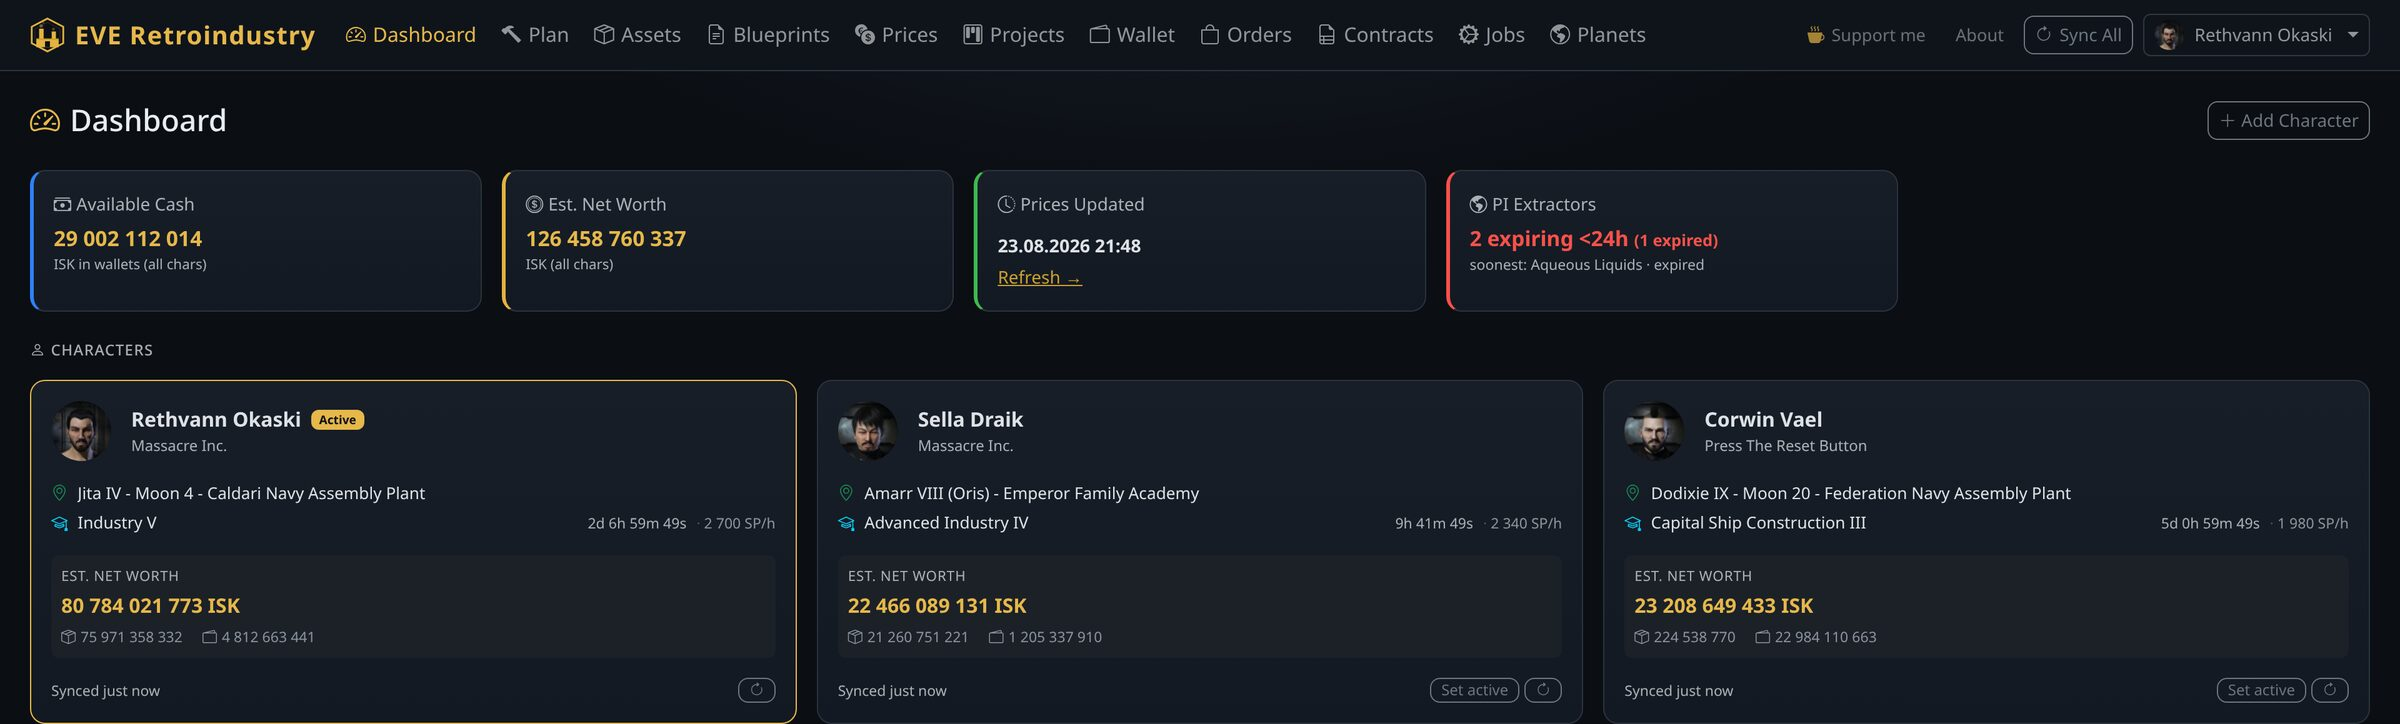
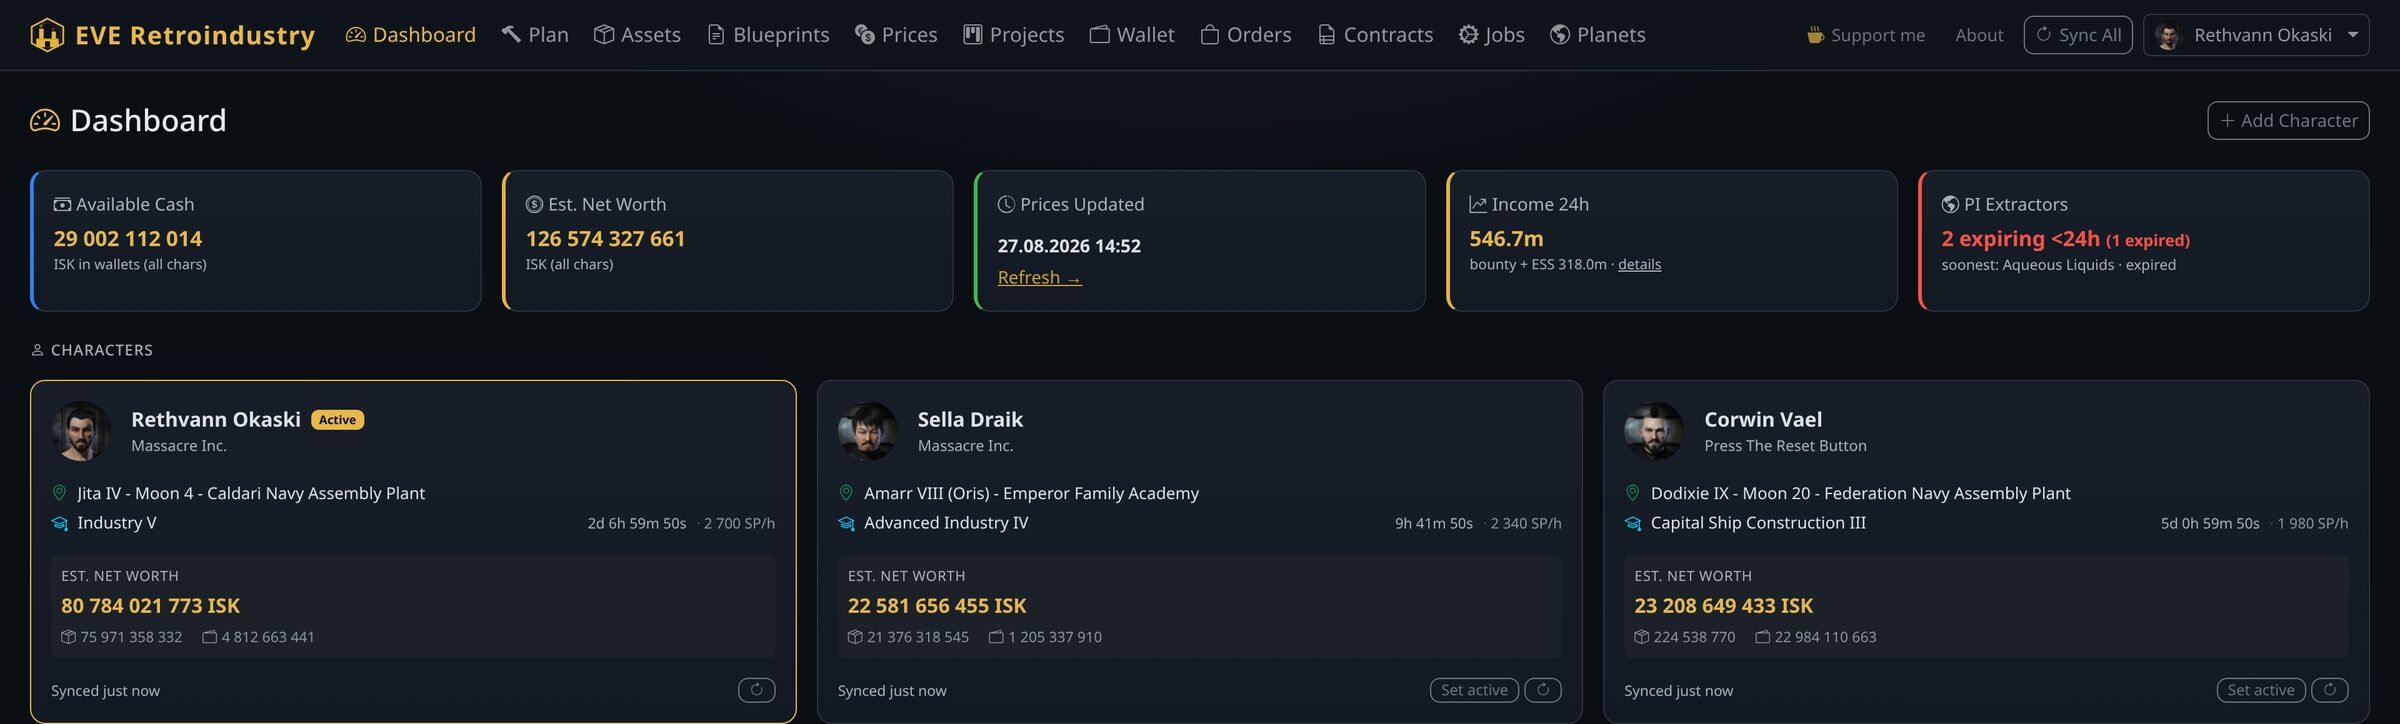
Screenshots refreshed for 0.11.16
Regenerated from the anonymised demo database, so they show the dashboard as it
is now - including the income tile, which the demo journal is seeded for (an
empty tile would have advertised the feature with a zero). The dashboard caption
now mentions what the tile answers.

diff --git a/index.html b/index.html
@@ -406,7 +406,7 @@
       <div class="shots">
         <figure>
           <button class="shot-btn" type="button" data-large="img/large/dashboard.jpg" aria-label="Enlarge: Dashboard listing every character with location, training and net worth"><img src="img/dashboard.jpg" alt="Dashboard listing every character with location, training and net worth" loading="lazy"><span class="zoom">Click to enlarge</span></button>
-          <figcaption><b>Dashboard.</b> Every alt at a glance - where they're docked, what they're training, wallet and asset value, plus a warning when planetary extractors are about to run dry.</figcaption>
+          <figcaption><b>Dashboard.</b> Every alt at a glance - where they're docked, what they're training, wallet and asset value, what the whole account earned in the last day, plus a warning when planetary extractors are about to run dry.</figcaption>
         </figure>
         <figure>
           <button class="shot-btn" type="button" data-large="img/large/production-plan.jpg" aria-label="Enlarge: Production plan for a Raven showing bill of materials, fees and profit"><img src="img/production-plan.jpg" alt="Production plan for a Raven showing bill of materials, fees and profit" loading="lazy"><span class="zoom">Click to enlarge</span></button>
